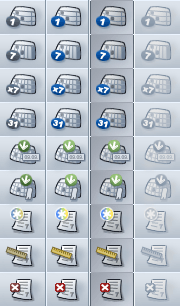
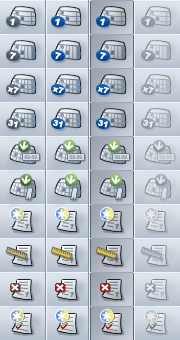
Completed fix for bug 155648:(Todo list should have it's own context-menu + toolbar button to add ToDo item) Added "new task" button. Checked in new button for modern theme

diff --git a/calendar/resources/skin/modern/calendar.css b/calendar/resources/skin/modern/calendar.css
@@ -290,6 +290,30 @@
   }
 
 /*--------------------------------------------------------------------
+ *   New Task button
+ *-------------------------------------------------------------------*/
+#calendar-new-task-button
+  {
+    margin-left:        5px;
+    padding-top:        1px;
+    -moz-image-region: rect(306px 45px 340px 0px);
+  }
+#calendar-new-task-button[disabled="true"],
+#calendar-new-task-button[disabled="true"]:hover,
+#calendar-new-task-button[disabled="true"]:hover:active
+  {
+    -moz-image-region: rect(306px 180px 340px 135px);
+  }
+#calendar-new-task-button:hover
+  {
+    -moz-image-region: rect(306px 90px 340px 45px);
+  }
+#calendar-new-task-button:hover:active
+  {
+    -moz-image-region: rect(306px 135px 340px 90px);
+  }
+
+/*--------------------------------------------------------------------
  *   Throbber button
  *-------------------------------------------------------------------*/
 #navigator-throbber {

diff --git a/calendar/resources/skin/classic/calendar.css b/calendar/resources/skin/classic/calendar.css
@@ -283,6 +283,29 @@
   }
 
 /*--------------------------------------------------------------------
+ *   New Task button
+ *-------------------------------------------------------------------*/
+
+#calendar-new-task-button
+  {
+    -moz-image-region: rect(189px 32px 210px 0px);
+  }
+#calendar-new-task-button[disabled="true"],
+#calendar-new-task-button[disabled="true"]:hover,
+#calendar-new-task-button[disabled="true"]:hover:active
+  {
+    -moz-image-region: rect(189px 128px 210px 96px);
+  }
+#calendar-new-task-button:hover
+  {
+    -moz-image-region: rect(189px 64px 210px 32px);
+  }
+#calendar-new-task-button:hover:active
+  {
+    -moz-image-region: rect(189px 96px 210px 64px);
+  }
+
+/*--------------------------------------------------------------------
  *   Throbber button
  *-------------------------------------------------------------------*/
 
